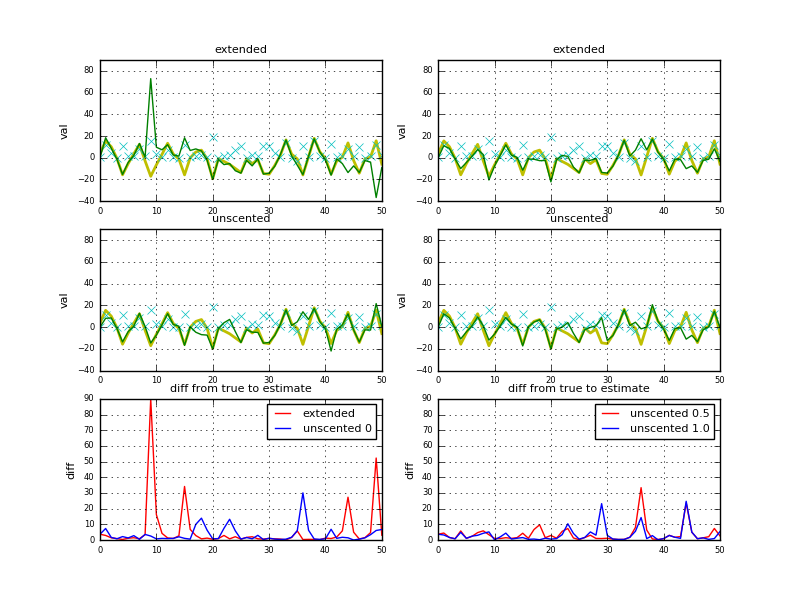
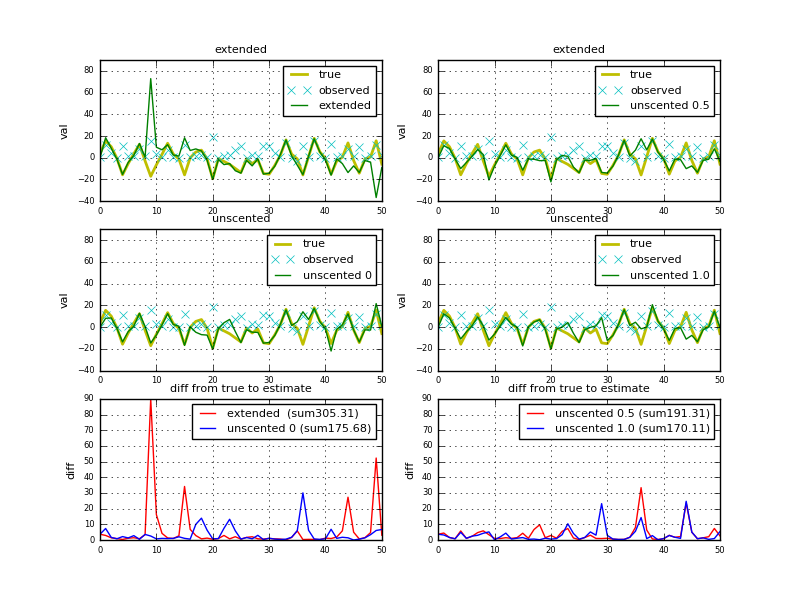
差分合計値をグラフに

diff --git a/demo/nonlinear_kalman_filter_ex1.py b/demo/nonlinear_kalman_filter_ex1.py
@@ -3,13 +3,15 @@
 import types
 import numpy as np
 import sys
+import os
 import io
 sys.stdout = io.TextIOWrapper(sys.stdout.buffer, encoding='utf-8')
 
 import matplotlib
 matplotlib.use('Agg')
 import matplotlib.pyplot as plt
-sys.path.append("../")
+path = os.path.join(os.path.dirname(__file__), '../')
+sys.path.append(path)
 from extended_kalman_filter import *
 from unscented_kalman_filter import *
 
@@ -18,7 +20,10 @@ print('非線形カルマンフィルターデモ比較1')
 np.random.seed(1024)
 
 def set_kalman_filter_functions(dt):
-
+    '''
+    「カルマンフィルタの基礎」足立修一,丸田一郎 例題7.4
+        状態推定のベンチマーク
+    '''
     def f(x, u):
         return np.mat([[ 0.2*x[0,0] + 25*x[0,0]/(1 + x[0,0]*x[0,0]) + 8*math.cos(1.2*u[0,0]) ]])
 
@@ -80,29 +85,31 @@ for i in range(0,step):
 
 fig, axarr = plt.subplots(3,2)
 
-axarr[0,0].plot(np.asarray(X_state)[0,:], 'y-', linewidth=2)
-axarr[0,0].plot(np.asarray(X_observed)[0,:], 'cx', linewidth=1)
-axarr[0,0].plot(np.asarray(ekf.get_estimate_value())[0,:], 'g-', linewidth=1)
+axarr[0,0].plot(np.asarray(X_state)[0,:], 'y-', label='true', linewidth=2)
+axarr[0,0].plot(np.asarray(X_observed)[0,:], 'cx', label='observed', linewidth=1)
+axarr[0,0].plot(np.asarray(ekf.get_estimate_value())[0,:], 'g-', label='extended', linewidth=1)
 axarr[0,0].set_title('extended', fontsize=8)
 axarr[0,0].set_ylabel('val', fontsize=8)
 axarr[0,0].tick_params(labelsize=6)
+axarr[0,0].legend(fontsize=8)
 axarr[0,0].set_ylim(-40, 90)
 axarr[0,0].grid(True)
 
-axarr[1,0].plot(np.asarray(X_state)[0,:], 'y-', linewidth=2)
-axarr[1,0].plot(np.asarray(X_observed)[0,:], 'cx', linewidth=1)
-axarr[1,0].plot(np.asarray(ukf1.get_estimate_value())[0,:], 'g-', linewidth=1)
+axarr[1,0].plot(np.asarray(X_state)[0,:], 'y-', label='true', linewidth=2)
+axarr[1,0].plot(np.asarray(X_observed)[0,:], 'cx', label='observed', linewidth=1)
+axarr[1,0].plot(np.asarray(ukf1.get_estimate_value())[0,:], 'g-', label='unscented '+str(ukf1.kappa), linewidth=1)
 axarr[1,0].set_title('unscented', fontsize=8)
 axarr[1,0].set_ylabel('val', fontsize=8)
 axarr[1,0].tick_params(labelsize=6)
+axarr[1,0].legend(fontsize=8)
 axarr[1,0].set_ylim(-40, 90)
 axarr[1,0].grid(True)
 
-ekf_diff = np.asarray(np.asarray(X_state)-np.asarray(ekf.get_estimate_value()))**2
-ukf1_diff = np.asarray(np.asarray(X_state)-np.asarray(ukf1.get_estimate_value()))**2
+ekf_diff = np.sqrt((np.asarray(np.asarray(X_state)-np.asarray(ekf.get_estimate_value()))**2).sum(axis=0))
+ukf1_diff = np.sqrt((np.asarray(np.asarray(X_state)-np.asarray(ukf1.get_estimate_value()))**2).sum(axis=0))
 
-axarr[2,0].plot(T,np.sqrt(ekf_diff.sum(axis=0)), 'r-', label='extended', linewidth=1)
-axarr[2,0].plot(T,np.sqrt(ukf1_diff.sum(axis=0)), 'b-', label='unscented '+str(ukf1.kappa), linewidth=1)
+axarr[2,0].plot(T,ekf_diff, 'r-', label='extended '+' (sum'+str(round(ekf_diff.sum(),2))+')', linewidth=1)
+axarr[2,0].plot(T,ukf1_diff, 'b-', label='unscented '+str(ukf1.kappa)+ ' (sum'+str(round(ukf1_diff.sum(),2))+')', linewidth=1)
 axarr[2,0].set_title('diff from true to estimate', fontsize=8)
 axarr[2,0].set_ylabel('diff', fontsize=8)
 axarr[2,0].tick_params(labelsize=6)
@@ -110,29 +117,31 @@ axarr[2,0].legend(fontsize=8)
 axarr[2,0].set_ylim(0, 90)
 axarr[2,0].grid(True)
 
-axarr[0,1].plot(np.asarray(X_state)[0,:], 'y-', linewidth=2)
-axarr[0,1].plot(np.asarray(X_observed)[0,:], 'cx', linewidth=1)
-axarr[0,1].plot(np.asarray(ukf2.get_estimate_value())[0,:], 'g-', linewidth=1)
+axarr[0,1].plot(np.asarray(X_state)[0,:], 'y-', label='true', linewidth=2)
+axarr[0,1].plot(np.asarray(X_observed)[0,:], 'cx', label='observed', linewidth=1)
+axarr[0,1].plot(np.asarray(ukf2.get_estimate_value())[0,:], 'g-', label='unscented '+str(ukf2.kappa), linewidth=1)
 axarr[0,1].set_title('extended', fontsize=8)
 axarr[0,1].set_ylabel('val', fontsize=8)
 axarr[0,1].tick_params(labelsize=6)
+axarr[0,1].legend(fontsize=8)
 axarr[0,1].set_ylim(-40, 90)
 axarr[0,1].grid(True)
 
-axarr[1,1].plot(np.asarray(X_state)[0,:], 'y-', linewidth=2)
-axarr[1,1].plot(np.asarray(X_observed)[0,:], 'cx', linewidth=1)
-axarr[1,1].plot(np.asarray(ukf3.get_estimate_value())[0,:], 'g-', linewidth=1)
+axarr[1,1].plot(np.asarray(X_state)[0,:], 'y-', label='true', linewidth=2)
+axarr[1,1].plot(np.asarray(X_observed)[0,:], 'cx', label='observed', linewidth=1)
+axarr[1,1].plot(np.asarray(ukf3.get_estimate_value())[0,:], 'g-',label='unscented '+str(ukf3.kappa), linewidth=1)
 axarr[1,1].set_title('unscented', fontsize=8)
 axarr[1,1].set_ylabel('val', fontsize=8)
 axarr[1,1].tick_params(labelsize=6)
+axarr[1,1].legend(fontsize=8)
 axarr[1,1].set_ylim(-40, 90)
 axarr[1,1].grid(True)
 
-ukf2_diff = np.asarray(np.asarray(X_state)-np.asarray(ukf2.get_estimate_value()))**2
-ukf3_diff = np.asarray(np.asarray(X_state)-np.asarray(ukf3.get_estimate_value()))**2
+ukf2_diff = np.sqrt((np.asarray(np.asarray(X_state)-np.asarray(ukf2.get_estimate_value()))**2).sum(axis=0))
+ukf3_diff = np.sqrt((np.asarray(np.asarray(X_state)-np.asarray(ukf3.get_estimate_value()))**2).sum(axis=0))
 
-axarr[2,1].plot(T,np.sqrt(ukf2_diff.sum(axis=0)), 'r-', label='unscented '+str(ukf2.kappa), linewidth=1)
-axarr[2,1].plot(T,np.sqrt(ukf3_diff.sum(axis=0)), 'b-', label='unscented '+str(ukf3.kappa), linewidth=1)
+axarr[2,1].plot(T,ukf2_diff, 'r-', label='unscented '+str(ukf2.kappa)+ ' (sum'+str(round(ukf2_diff.sum(),2))+')', linewidth=1)
+axarr[2,1].plot(T,ukf3_diff, 'b-', label='unscented '+str(ukf3.kappa)+ ' (sum'+str(round(ukf3_diff.sum(),2))+')', linewidth=1)
 axarr[2,1].set_title('diff from true to estimate', fontsize=8)
 axarr[2,1].set_ylabel('diff', fontsize=8)
 axarr[2,1].tick_params(labelsize=6)
@@ -140,4 +149,4 @@ axarr[2,1].legend(fontsize=8)
 axarr[2,1].set_ylim(0, 90)
 axarr[2,1].grid(True)
 
-plt.savefig('img/nonlinear_kalman_filter_ex1.png')
+plt.savefig(os.path.join(os.path.dirname(__file__), 'img/nonlinear_kalman_filter_ex1.png'))
